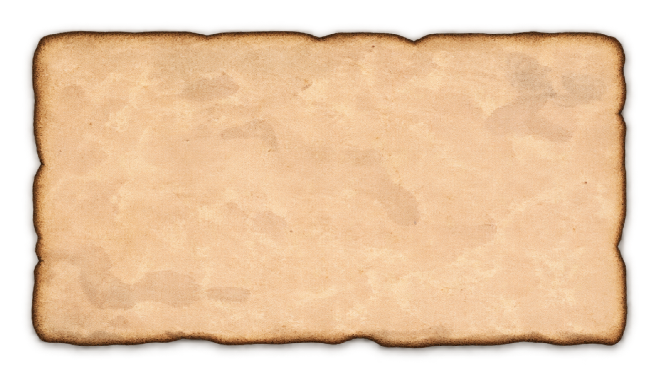
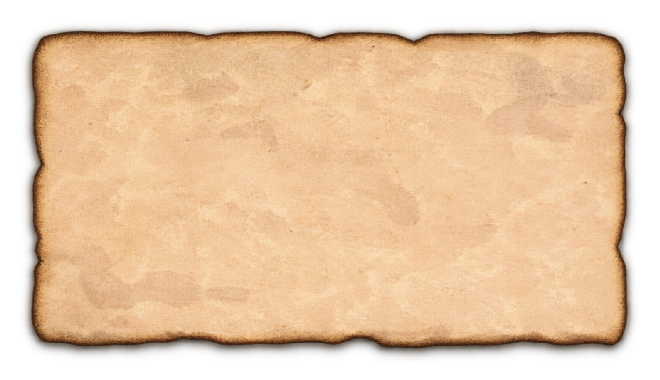
Added statistics and fixed green and black textbox images

diff --git a/src/index.ts b/src/index.ts
@@ -6,13 +6,14 @@ import {
     getCachedFaceArtCount,
     importCachedFaceArt
 } from "./art-cache";
+import * as utils from "./utils";
 import * as constants from "./constants";
 import { buildEditionCheckboxes } from "./edition-filter";
 import { CardDatabase } from "./card-database";
 import { CardPreviewController } from "./preview-controller";
 import { downloadDecklist } from "./decklist";
 import { generateConstructedDeckPdf, generateSealedDeckPdf, selectSealedCardPool } from "./deck-pdf";
-import type { Color, PrintableFace } from "./types";
+import type { PrintableFace } from "./types";
 
 // Webpack can be configured to import images directly as inline Base64 data URIs
 // Let's import the 8 possible background images for the card frames
@@ -322,6 +323,9 @@ if (addP9ToDecklistButton) {
             "Mox Sapphire",
         ];
         decklistTextArea.value = `${existingText}${separator}${power9Cards.join("\n")}\n`;
+
+        utils.trackEvent("add_power_9_to_decklist");
+
         syncGeneratePdfButton();
     });
 }
@@ -336,6 +340,9 @@ if (clearArtCacheButton) {
         try {
             await clearCachedFaceArt();
             await updateStatusSummary("Art cache cleared.");
+
+            utils.trackEvent("clear_art_cache");
+
         } catch (error) {
             const message = error instanceof Error ? error.message : String(error);
             setStatus(`Failed to clear art cache: ${message}`);
@@ -349,6 +356,9 @@ if (exportArtCacheButton) {
             const exportBlob = await exportCachedFaceArt();
             downloadArtCacheExport(exportBlob);
             await updateStatusSummary("Art cache exported.");
+
+            utils.trackEvent("export_art_cache");
+
         } catch (error) {
             const message = error instanceof Error ? error.message : String(error);
             setStatus(`Failed to export art cache: ${message}`);
@@ -372,6 +382,9 @@ if (importArtCacheButton && importArtCacheFileInput) {
         try {
             const result = await importCachedFaceArt(file);
             await updateStatusSummary(`Imported ${result.importedCount} art images.`);
+
+            utils.trackEvent("import_art_cache");
+
         } catch (error) {
             const message = error instanceof Error ? error.message : String(error);
             setStatus(`Failed to import art cache: ${message}`);
@@ -409,6 +422,8 @@ async function generateSealedPDF(): Promise<void> {
             textBoxImportsStrings: textBoxImportsStrings
         });
 
+        utils.trackEvent("generate_sealed_pdf", { selectedEditions });
+
         downloadGeneratedPdf("sealed-deck", pdfBlob);
         await updateStatusSummary(`Generated PDF for sealed deck.`);
     } catch (error) {
@@ -440,6 +455,8 @@ async function generateConstructedPDF(): Promise<void> {
             frameBackgroundsImportsStrings: frameBackgroundsImportsStrings,
             textBoxImportsStrings: textBoxImportsStrings
         });
+
+        utils.trackEvent("generate_constructed_pdf");
 
         downloadGeneratedPdf("constructed-deck", pdfBlob);
         await updateStatusSummary(`Generated PDF for Decklist.`);

diff --git a/src/utils.ts b/src/utils.ts
@@ -190,3 +190,9 @@ function linearToSrgb(channel: number): number {
 function toRgbChannel(channel: number): number {
     return Math.round(Math.min(Math.max(channel, 0), 255));
 }
+// Helper function (safe to call even if gtag is not loaded in dev)
+export function trackEvent(eventName: string, params?: Record<string, any>) {
+    if (typeof window !== "undefined" && typeof (window as any).gtag === "function") {
+        (window as any).gtag("event", eventName, params);
+    }
+}

diff --git a/src/declarations.d.ts b/src/declarations.d.ts
@@ -19,3 +19,5 @@ declare module "pdfkit/output" {
         off(event: string, listener: (...args: unknown[]) => void): unknown;
     }): Promise<Uint8Array>;
 }
+
+declare function gtag(...args: any[]): void;
